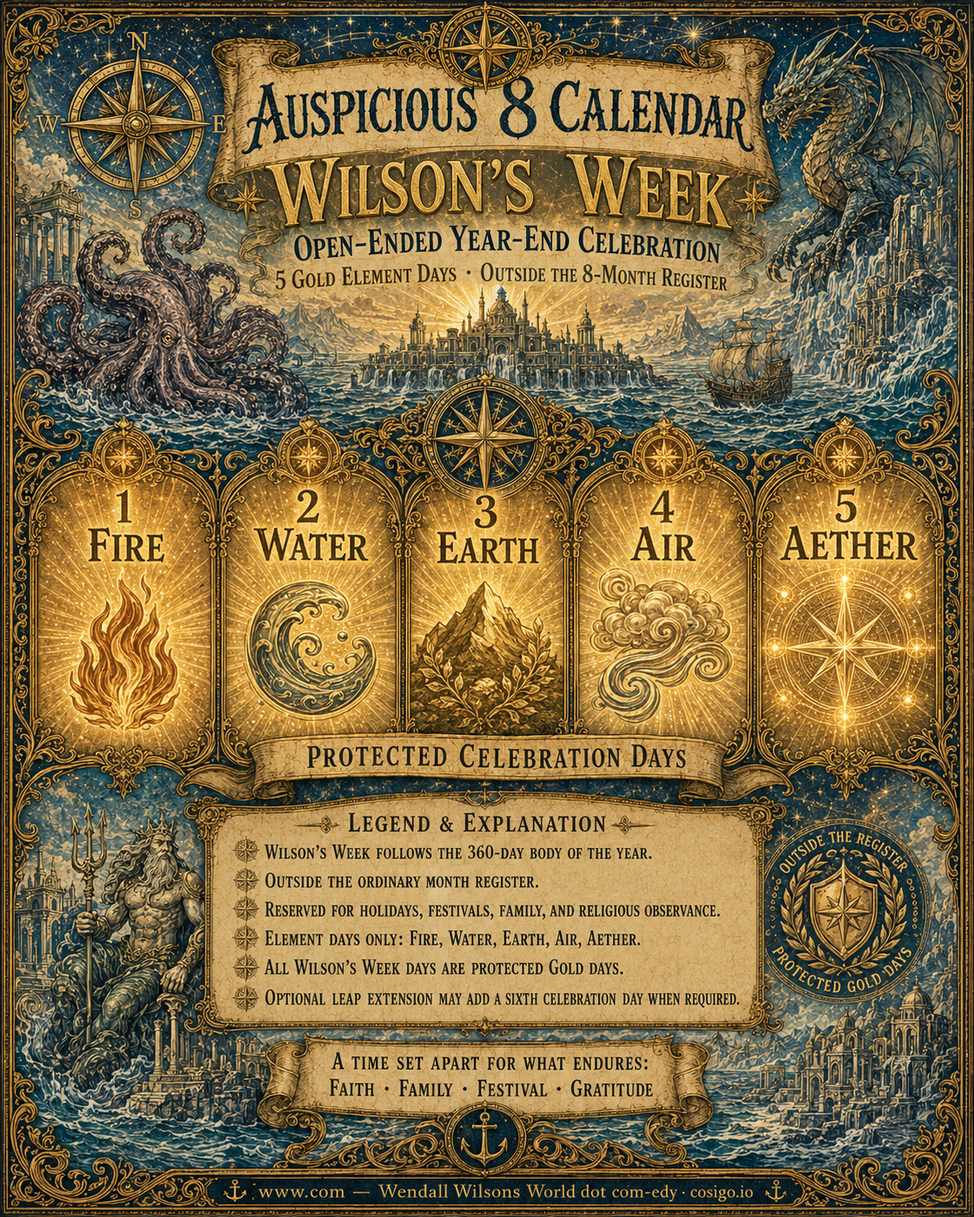
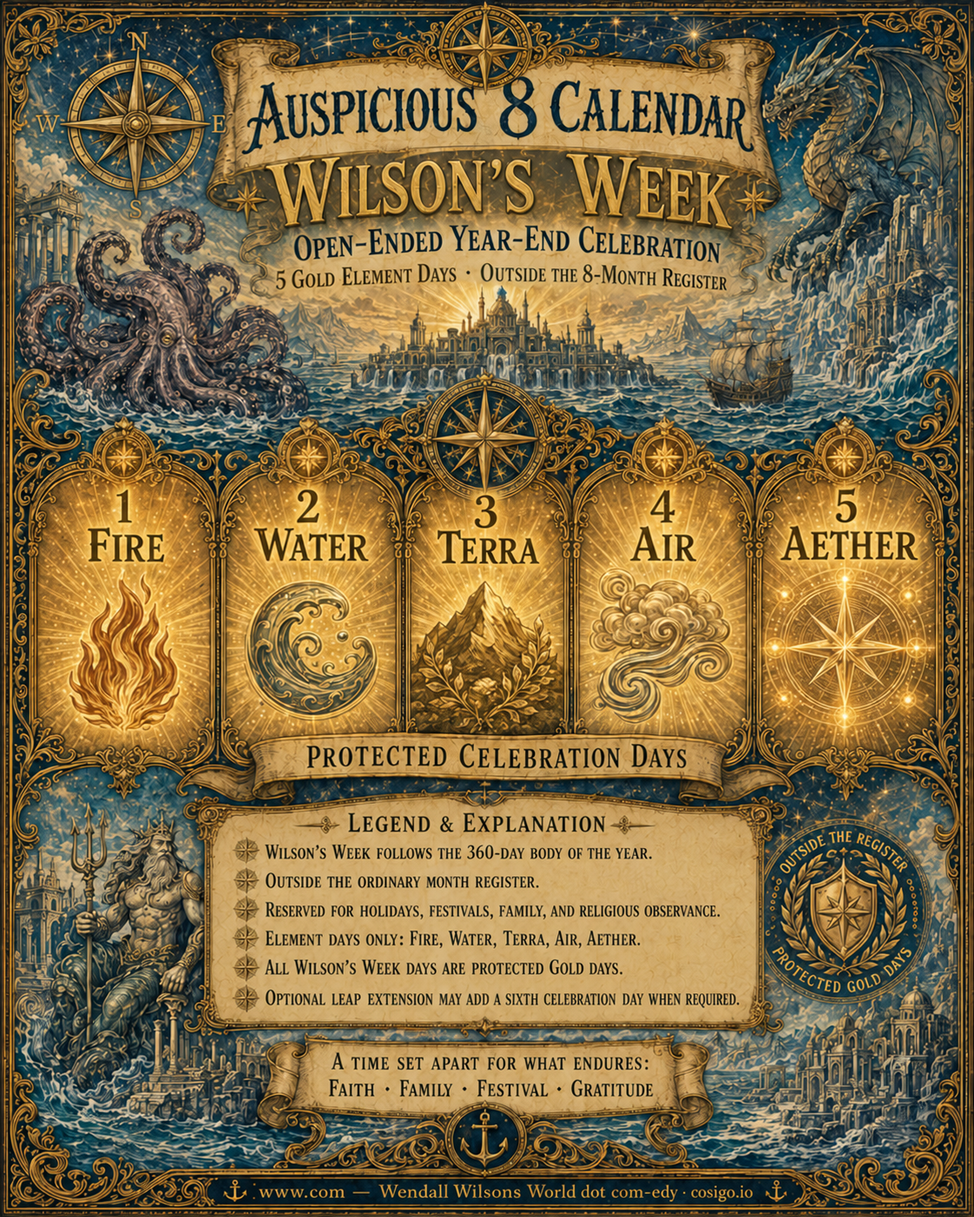
Calendar: finalize Terra artwork set

Changed region(s): [[0.0, 0.0, 1.0, 1.0]]

diff --git a/sites/calendar.cosigo.io/public/index.html b/sites/calendar.cosigo.io/public/index.html
@@ -195,7 +195,7 @@
     }
 
     .hero{position:relative;overflow:hidden;border-bottom:1px solid rgba(214,170,78,.28)}
-    .hero::before{content:"";position:absolute;inset:0;background:linear-gradient(90deg,rgba(5,16,24,.96) 0%,rgba(5,16,24,.82) 42%,rgba(5,16,24,.28) 75%,rgba(5,16,24,.9) 100%),url('/assets/thumbs/ausp8_total.png') center 24%/cover no-repeat;filter:saturate(.85)}
+    .hero::before{content:"";position:absolute;inset:0;background:linear-gradient(90deg,rgba(5,16,24,.96) 0%,rgba(5,16,24,.82) 42%,rgba(5,16,24,.28) 75%,rgba(5,16,24,.9) 100%),url('/assets/thumbs/ausp8_total.png?v=terra-art-20260929a') center 24%/cover no-repeat;filter:saturate(.85)}
     .hero::after{content:"";position:absolute;inset:0;background:linear-gradient(180deg,transparent 55%,#06131d 100%)}
     .hero-inner{position:relative;z-index:1;max-width:var(--max);margin:auto;padding:5.2rem 1.25rem 6rem;display:grid;grid-template-columns:minmax(0,1.2fr) minmax(260px,.55fr);gap:2rem;align-items:center}
     .eyebrow{color:var(--gold2);text-transform:uppercase;letter-spacing:.22em;font-size:.72rem;font-weight:800}
@@ -2197,7 +2197,7 @@
             </article>
 
             <a class="panel feature-image" href="/image-viewer.html#/assets/ausp8_year_end.png" data-lightbox aria-label="Open Wilson's Week artwork">
-              <img src="/assets/thumbs/ausp8_year_end.png" width="360" height="450" loading="lazy" decoding="async" alt="Wilson's Week year-end celebration artwork with Fire, Water, Terra, Air and Aether gold days">
+              <img src="/assets/thumbs/ausp8_year_end.png?v=terra-art-20260929a" width="360" height="450" loading="lazy" decoding="async" alt="Wilson's Week year-end celebration artwork with Fire, Water, Terra, Air and Aether gold days">
             </a>
           </div>
         </div>
@@ -2210,7 +2210,7 @@
           <div class="art-grid">
             <a class="panel art-card" href="/image-viewer.html#/assets/ausp8_example.png" data-lightbox>
               <figure>
-                <img src="/assets/thumbs/ausp8_example.png" width="360" height="509" loading="lazy" decoding="async" alt="A8 protected days example with Aether highlighted gold and alternating Air highlighted silver">
+                <img src="/assets/thumbs/ausp8_example.png?v=terra-art-20260929a" width="360" height="509" loading="lazy" decoding="async" alt="A8 protected days example with Aether highlighted gold and alternating Air highlighted silver">
                 <figcaption>
                   <strong>Protected Days Example</strong>
                   <span>Gold Aether · Silver alternating Air · business-day rhythm.</span>
@@ -2220,7 +2220,7 @@
 
             <a class="panel art-card" href="/image-viewer.html#/assets/ausp8_total.png" data-lightbox>
               <figure>
-                <img src="/assets/thumbs/ausp8_total.png" width="360" height="450" loading="lazy" decoding="async" alt="Auspicious 8 complete year calendar overview">
+                <img src="/assets/thumbs/ausp8_total.png?v=terra-art-20260929a" width="360" height="450" loading="lazy" decoding="async" alt="Auspicious 8 complete year calendar overview">
                 <figcaption>
                   <strong>One-Year Overview</strong>
                   <span>All eight compass months and the year-end interval together.</span>
@@ -5068,7 +5068,7 @@
 
     const a=document.createElement('a');
     a.className='panel art-card'; a.href=artworkViewerUrl(m.art); a.dataset.lightbox='';
-    a.innerHTML=`<figure><img src="${m.art.replace('/assets/','/assets/thumbs/')}" width="360" height="450" loading="lazy" decoding="async" alt="Auspicious 8 ${m.name} compass month calendar artwork"><figcaption><strong>${m.bits} · ${m.oct} · ${m.dir} · ${m.name}</strong><span>${m.anchor} compass anchor · 45 days · 9 planetary weeks</span></figcaption></figure>`;
+    a.innerHTML=`<figure><img src="${m.art.replace('/assets/','/assets/thumbs/')+'?v=terra-art-20260929a'}" width="360" height="450" loading="lazy" decoding="async" alt="Auspicious 8 ${m.name} compass month calendar artwork"><figcaption><strong>${m.bits} · ${m.oct} · ${m.dir} · ${m.name}</strong><span>${m.anchor} compass anchor · 45 days · 9 planetary weeks</span></figcaption></figure>`;
     artGrid.appendChild(a);
   });
 
